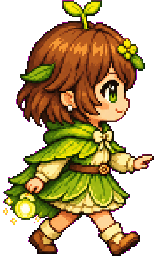
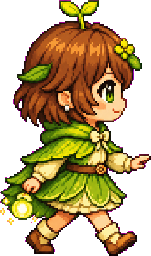
feat(companion): four-frame walk cycle with a passing frame
Adds a legs-passing frame per first-stage character (Codex art keyed with
tool/pose_art/key_walk_pairs.py, now aligned on head and feet anchors) and
plays step, pass, step, pass. Also records the study hall art prompt.

diff --git a/test/companion_pose_test.dart b/test/companion_pose_test.dart
@@ -83,4 +83,24 @@ void main() {
     expect(CompanionPose.read.assetFor(1), isNull);
     expect(CompanionPose.idle.assetFor(0), isNull);
   });
+
+  test('walk cycle is four frames: step, pass, step, pass', () {
+    expect(CompanionPose.walkFrames(3), [
+      'assets/avatar/poses/walk_3_a.png',
+      'assets/avatar/poses/walk_3_p.png',
+      'assets/avatar/poses/walk_3_b.png',
+      'assets/avatar/poses/walk_3_p.png',
+    ]);
+    expect(CompanionPose.walkFrames(1), isNull);
+  });
+
+  test('walk frame follows the step phase', () {
+    const frames = ['a', 'p1', 'b', 'p2'];
+    expect(CompanionPose.walkFrameAt(frames, 0), 'a');
+    expect(CompanionPose.walkFrameAt(frames, 0.3), 'p1');
+    expect(CompanionPose.walkFrameAt(frames, 0.5), 'b');
+    expect(CompanionPose.walkFrameAt(frames, 0.99), 'p2');
+    expect(CompanionPose.walkFrameAt(frames, 1.0), 'a');
+    expect(CompanionPose.walkFrameAt(frames, -0.25), 'p2');
+  });
 }

diff --git a/lib/models/companion_pose.dart b/lib/models/companion_pose.dart
@@ -71,9 +71,19 @@ enum CompanionPose {
   /// to the base sprite with code-drawn steps.
   static List<String>? walkFrames(int faceShapeIndex) {
     if (!poseArtIndexes.contains(faceShapeIndex)) return null;
+    final pass = 'assets/avatar/poses/walk_${faceShapeIndex}_p.png';
+    // Step, legs passing, other step, legs passing: a smooth 4-frame cycle.
     return [
       'assets/avatar/poses/walk_${faceShapeIndex}_a.png',
+      pass,
       'assets/avatar/poses/walk_${faceShapeIndex}_b.png',
+      pass,
     ];
+  }
+
+  /// The frame shown at [phase] (0–1 per full cycle; wraps around).
+  static T walkFrameAt<T>(List<T> frames, double phase) {
+    final wrapped = phase - phase.floorToDouble();
+    return frames[(wrapped * frames.length).floor() % frames.length];
   }
 }

diff --git a/lib/widgets/companion_sprite.dart b/lib/widgets/companion_sprite.dart
@@ -116,7 +116,7 @@ class _CompanionSpriteState extends State<CompanionSprite>
             maxHeight: size * 1.28,
             alignment: Alignment.bottomCenter,
             child: Image.asset(
-              walkFrames[widget.stepPhase < 0.5 ? 0 : 1],
+              CompanionPose.walkFrameAt(walkFrames, widget.stepPhase),
               height: size * 1.28,
               fit: BoxFit.contain,
               alignment: Alignment.bottomCenter,

diff --git a/tool/pose_art/key_walk_pairs.py b/tool/pose_art/key_walk_pairs.py
@@ -1,12 +1,21 @@
-"""Key out walk-cycle pairs with one shared crop box per character, so the
-two step frames line up and the sprite does not jitter while walking.
+"""Key out walk-cycle frames (step a, step b and the passing frame p) so they
+line up and the sprite does not jitter while walking.
 
-  python tool/pose_art/key_walk_pairs.py <generated_dir> assets/avatar/poses
+Frames are generated separately, so instead of one shared crop box every
+frame is aligned on two anchors: the feet (bottom of the visible pixels) and
+the head (horizontal centre of the top third). All frames of one character
+use one scale.
+
+  python tool/pose_art/key_walk_pairs.py <generated_dir>... assets/avatar/poses
+
+Each generated_dir is searched for walk_<face>_{a,b,p}.png.
 """
 import sys
 from pathlib import Path
 
 from PIL import Image
+
+HEIGHT = 256
 
 
 def keyed(path):
@@ -21,20 +30,42 @@ def keyed(path):
     return im
 
 
+def head_x(im):
+    """Horizontal centre of the top third of the visible pixels."""
+    left, top, right, bottom = im.getbbox()
+    head = im.crop((left, top, right, top + (bottom - top) // 3)).getbbox()
+    return left + (head[0] + head[2]) / 2
+
+
 def main():
-    src, out = Path(sys.argv[1]), Path(sys.argv[2])
-    for a in sorted(src.glob('walk_*_a.png')):
-        b = a.with_name(a.name.replace('_a.png', '_b.png'))
-        ia, ib = keyed(a), keyed(b)
-        boxes = [ia.getbbox(), ib.getbbox()]
-        box = (min(x[0] for x in boxes), min(x[1] for x in boxes),
-               max(x[2] for x in boxes), max(x[3] for x in boxes))
-        for im, name in ((ia, a.name), (ib, b.name)):
-            c = im.crop(box)
-            scale = 256 / c.height
-            c = c.resize((max(1, round(c.width * scale)), 256), Image.NEAREST)
-            c.save(out / name, optimize=True)
-            print('wrote', out / name, c.size)
+    *sources, out = (Path(a) for a in sys.argv[1:])
+    found = {}
+    for src in sources:
+        for f in src.glob('walk_*_[abp].png'):
+            found[f.name] = f
+    faces = sorted({n.split('_')[1] for n in found}, key=int)
+    for face in faces:
+        names = [f'walk_{face}_{k}.png' for k in 'abp' if f'walk_{face}_{k}.png' in found]
+        ims = {n: keyed(found[n]) for n in names}
+        boxes = {n: im.getbbox() for n, im in ims.items()}
+        heads = {n: head_x(im) for n, im in ims.items()}
+        scale = HEIGHT / max(b[3] - b[1] for b in boxes.values())
+        # Room left and right of the head anchor, shared by every frame.
+        left = max(heads[n] - boxes[n][0] for n in names)
+        right = max(boxes[n][2] - heads[n] for n in names)
+        width = round((left + right) * scale)
+        for n in names:
+            box = boxes[n]
+            part = ims[n].crop(box)
+            part = part.resize(
+                (max(1, round(part.width * scale)), max(1, round(part.height * scale))),
+                Image.NEAREST,
+            )
+            canvas = Image.new('RGBA', (width, HEIGHT), (0, 0, 0, 0))
+            x = round((left - (heads[n] - box[0])) * scale)
+            canvas.paste(part, (x, HEIGHT - part.height), part)
+            canvas.save(out / n, optimize=True)
+            print('wrote', out / n, canvas.size)
 
 
 if __name__ == '__main__':
